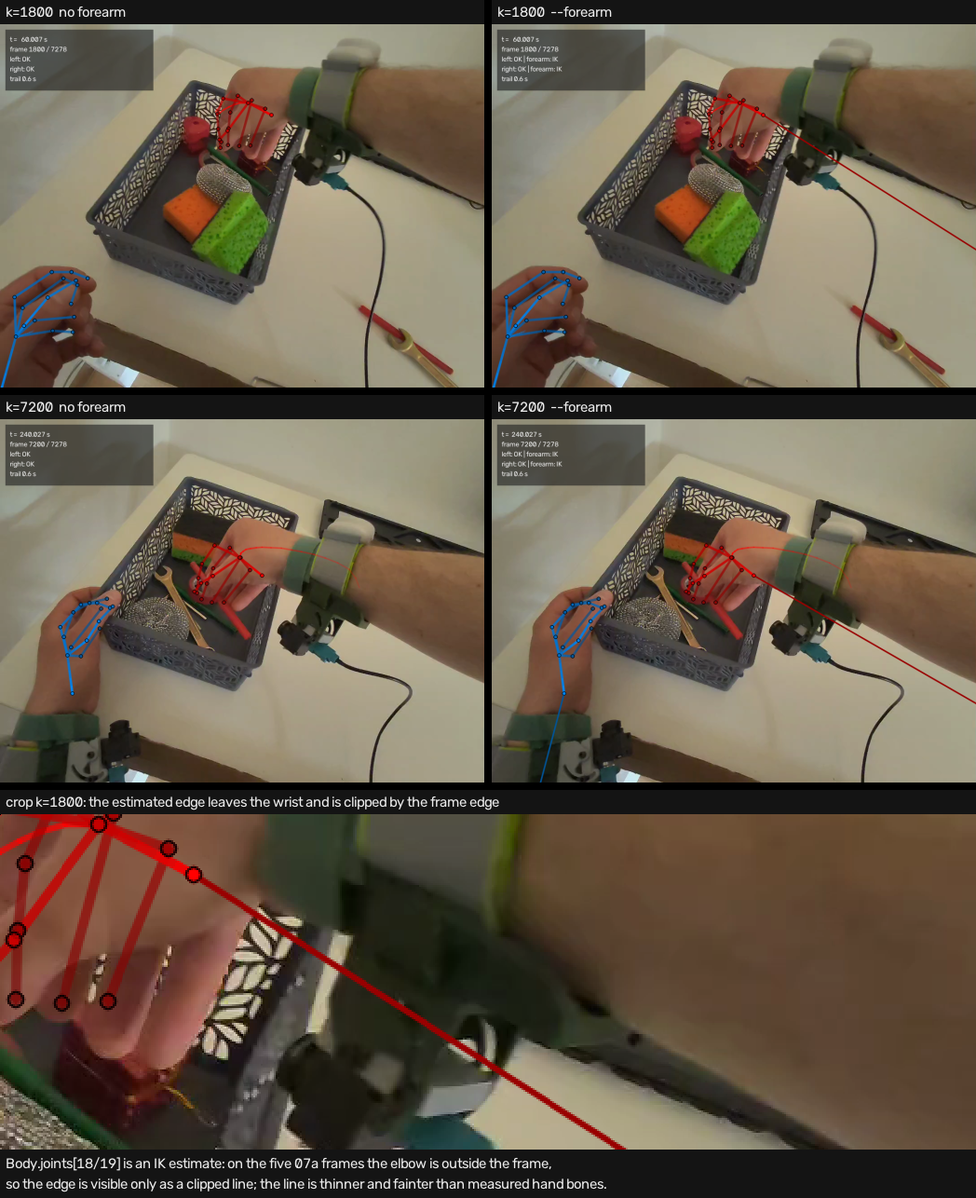
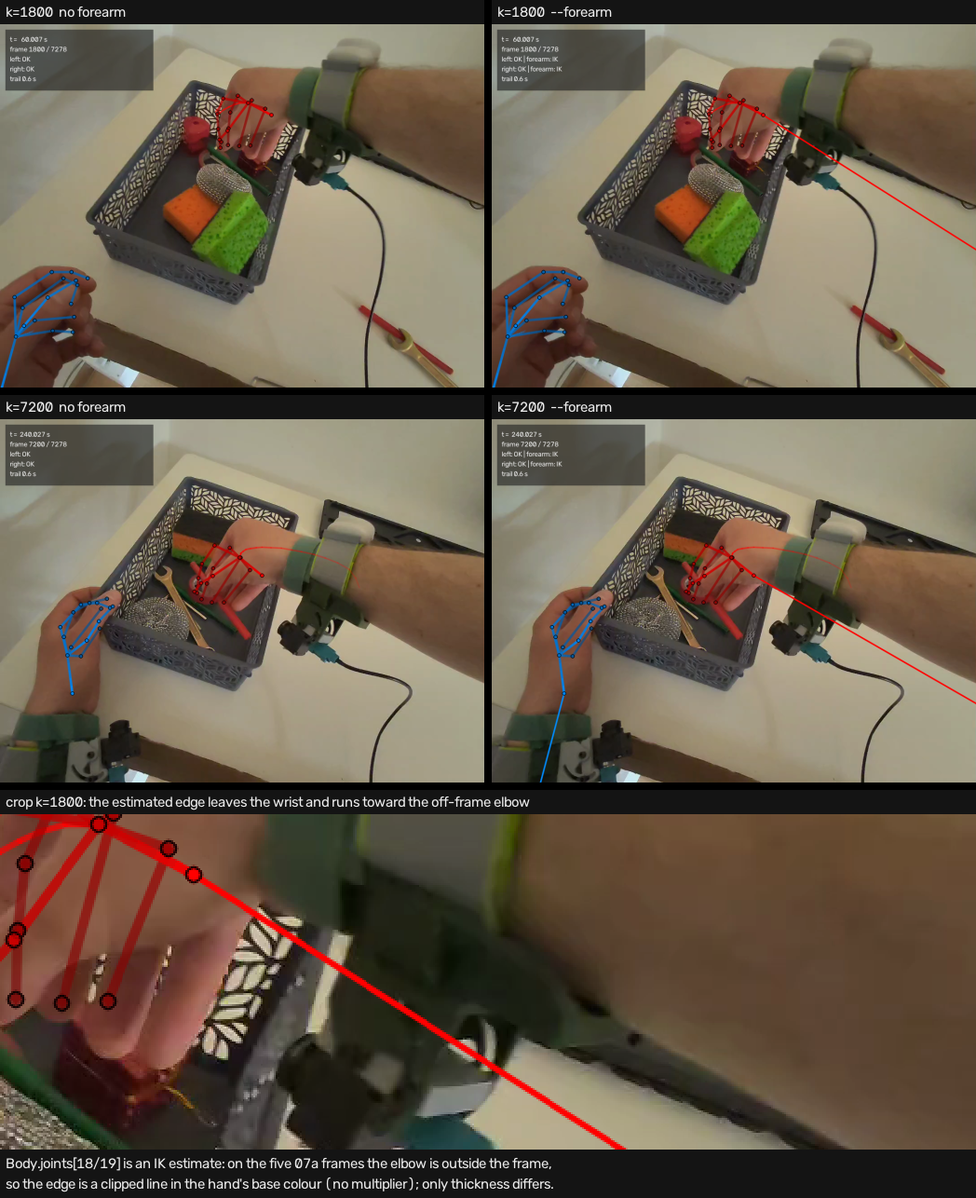
docs: record the base-colour forearm edge and regenerate the image
Document the 08h-fix colour rule in docs/overlay.md and the README limitations: the edge is drawn in the hand's base colour without a multiplier, which in the relative mode matches the nearest hand bone; only thickness (2 px vs 3 px) marks it as an estimate. Add the NOTES entry with the six-mode colour check, regressions (default 5/5 VTR-08g-fix4, five-points 5/5 VTR-08f, 40/40, 10/48 at 60.9 px, drift 34.6 px), pixel-diff of the hand/HUD and the 10 s fragment numbers. Regenerate docs/images/overlay_forearm.png.

diff --git a/docs/overlay.md b/docs/overlay.md
@@ -1,4 +1,4 @@
-# Наложение: скелет кистей, след, HUD, глубина и предплечье (задачи 08a/08b/08f/08g/08g-fix2/08g-fix3/08g-fix4/08h)
+# Наложение: скелет кистей, след, HUD, глубина и предплечье (задачи 08a/08b/08f/08g/08g-fix2/08g-fix3/08g-fix4/08h/08h-fix)
 
 ![До и после: 08a и 08b на кадрах t = 60.0 и 240.0 с](images/overlay_before_after.png)
 
@@ -10,7 +10,7 @@
 
 ![Три режима глубины на k = 1800 и k = 4285: только яркость / только alpha / яркость + alpha](images/overlay_depth_alpha_modes.png)
 
-![Предплечье elbow → wrist: без флага и с --forearm на k = 1800 и 7200, внизу кроп](images/overlay_forearm.png)
+![Предплечье elbow → wrist: без флага и с --forearm на k = 1800 и 7200, внизу кроп; ребро — базовым цветом руки](images/overlay_forearm.png)
 
 Нижняя сетка — задача 08f: слева прежний 5-точечный скелет (`--five-points`), в центре
 густой по умолчанию (17 суставов на руку), справа все 26 джойнтов OpenXR (`--all-joints`).
@@ -256,7 +256,7 @@
   вместе с относительной шкалой, явный `--depth-gamma` действует и там. `--no-depth-color`
   отключает всё.
 
-## Предплечье (08h)
+## Предплечье (08h, цвет — 08h-fix)
 
 - **Что это.** Единственная кость за пределами кисти — **предплечье `elbow → wrist`**, и только
   по флагу `--forearm` (по умолчанию выключено, кадр побайтово прежний). Локтя в Hand нет:
@@ -274,11 +274,21 @@
   времени, что у суставов 08f. Проекция — существующая `world_to_camera_matrix` (07c), без
   новой калибровки.
 - **Стиль.** Ребро рисуется **до** скелета кисти, поэтому точки и измеренные кости остаются
-  поверх; цвет руки умножается на **0.60**, толщина — **2 px** (у костей кисти 2, в режиме
-  глубины 3), т.е. линия визуально «оценка». Ребро **плоское**: глубина, alpha и градиент
+  поверх. Толщина — **2 px** (у костей кисти 2, в режиме глубины 3): от измеренного скелета
+  ребро отличается толщиной, а не цветом. Ребро **плоское**: глубина, alpha и градиент
   к нему не применяются — локоть Body не измерен, и красить оценку глубиной значило бы выдать
   её за факт. Ребро рисуется до скелета, всегда под кистью и не участвует в сортировке по
   глубине (она есть только у костей Hand).
+- **Цвет (08h-fix).** Ребро предплечья рисуется базовым цветом руки без множителя; в
+  относительном режиме это совпадает с цветом ближайшей кости кисти. Цвет — ровно
+  `LEFT_COLOR = (255, 140, 0)` / `RIGHT_COLOR = (0, 0, 255)` из `COLORS` (те же, что в 07a/08a),
+  без `shade_color` и без alpha. Поэтому он не зависит ни от `--depth-color`/
+  `--no-depth-color`, ни от `--depth-relative`/`--no-depth-relative`, ни от `--depth-gamma`/
+  `--no-depth-gamma`: ребро не участвует в раскраске по глубине, и на одном кадре цвет
+  одинаков во всех шести режимах. Проверено на PNG 5 кадров 07a: 6 видимых рёбер, во всех
+  шести режимах пиксель ребра равен базовому цвету **точно** (PNG без потерь; допуск на
+  H.264 нужен только для видео). Прежний вариант 08h умножал цвет на 0.60 и был темнее любой
+  кости кисти — от этого отказались.
 - **Разрывы и защита.** Ребро не рисуется, если конец не виден (`NaN`/«нет данных»/точка за
   камерой) или длина `|elbow → wrist|` вне **0.15–0.40 м** (замер: p5–p95 0.207–0.286 слева
   и 0.234–0.349 справа, полный размах 0.192–0.376). Последнее считается отдельно
@@ -369,10 +379,15 @@ trail 0.6 s
   отрезков следа; 0 кадров вне трекинга. Полный клип не перерендеривался: менялись только
   параметры шкалы (γ и ширина окна), геометрия и время не трогались.
 - 08h (10-с фрагмент с предплечьем, `output/overlay_10s_forearm.mp4`): 301 кадр (10.034 с),
-  1080×810, H.264 (`avc1`), **4.03 МиБ** (4 224 686 байт), **4.1 с** (73.3 кадр/с), 10 234 видимых сустава,
+  1080×810, H.264 (`avc1`), **4.05 МиБ** (4 249 491 байт), **3.9 с** (77.8 кадр/с), 10 234 видимых сустава,
   9 208 отрезков следа, **602** нарисованных ребра предплечья и 0 пропусков, 0 кадров вне
   трекинга. Полный клип не перерендеривался. Побайтовость (sha256, PNG 5 кадров 07a):
   дефолт без `--forearm` = `VTR-08g-fix4` 5/5, `--five-points` = `VTR-08f` 5/5.
+- 08h-fix (цвет ребра): фрагмент перерендерен после смены цвета (геометрия, кадры и число
+  рёбер те же — 301 кадр, 602 ребра, 4.05 МиБ / 3.9 с); PNG 5 кадров 07a с `--forearm`:
+  ребро ровно базового цвета руки во всех 6 режимах глубины (6 видимых рёбер); дефолт без
+  `--forearm` по-прежнему 5/5 `VTR-08g-fix4`, `--five-points` — 5/5 `VTR-08f`; вне полосы
+  ребра (и вне текста HUD-маркера) отличий от рендера без `--forearm` нет.
 - След правой руки виден с кадра 31 по кадр 7262 (кисть входит в кадр / трекинг кончается),
   левой — с кадра 11 по 7231 (левую кисть часто обрезает край кадра).
 
@@ -446,7 +461,7 @@ python src/overlay_video.py data/CameraRecord_*.mp4 --frames 30,1800,3600,5400,7
 python src/overlay_video.py data/CameraRecord_*.mp4 --frames 1800,7200 \
     --stills output/debug/forearm/off                 # без ребра (побайтово прежний кадр)
 python src/overlay_video.py data/CameraRecord_*.mp4 --frames 1800,7200 \
-    --stills output/debug/forearm/on --forearm        # тонкая бледная оценка + маркер HUD
+    --stills output/debug/forearm/on --forearm        # тонкая оценка базовым цветом руки + маркер HUD
 python src/overlay_video.py data/CameraRecord_*.mp4 --start 1750 --end 2050 \
     --out output/overlay_10s_forearm.mp4 --forearm
 ```

diff --git a/docs/NOTES.md b/docs/NOTES.md
@@ -1380,3 +1380,52 @@
   (побайтово). Ребро рисуется только при длине 0.15–0.40 м и обоих видимых концах; на кадрах,
   где локоть за кадром (в 07a — оба), линия просто обрезается краем. HUD показывает
   `forearm: IK` / `forearm: n/a`.»
+
+## 2026-11-03 · Задача 08h-fix (ребро предплечья базовым цветом руки)
+
+- **Что обнаружил (по ревью 08h).** Ребро рисовалось цветом руки × `FOREARM_COLOR_FACTOR = 0.60`
+  плюс толщина 2 px, поэтому даже ближайшая, самая яркая кость кисти (множитель 1.0) была
+  ярче ребра: «оценка» читалась не как другой источник данных, а как «тёмная кость». Требование
+  пользователя: ребро **всегда одного цвета и всегда цвета самой яркой кости руки**, то есть
+  точно `LEFT_COLOR`/`RIGHT_COLOR` без множителя; отличаться от кисти оно должно толщиной, а
+  не яркостью.
+- **Как решил.** `draw_forearms` передаёт в `_paint_bone` ровно `palette[side]` из `COLORS`
+  (`(255, 140, 0)` слева, `(0, 0, 255)` справа — те же, что в 07a/08a); `FOREARM_COLOR_FACTOR`
+  удалён, `shade_color` к ребру больше не применяется, alpha как была 1.0. Рёбра по-прежнему
+  не получают ни глубин, ни `z_ref`, ни `gamma`, ни сортировки: `draw_forearms` вызывается
+  **до** `draw_skeleton` и вообще не видит флагов глубины — поэтому цвет структурно не зависит
+  от `--depth-color`/`--no-depth-color`/`--depth-relative`/`--no-depth-relative`/
+  `--depth-gamma`/`--no-depth-gamma`. Толщина оставлена **2 px** (в режиме глубины у костей
+  кисти 3): это ровно вариант, разрешённый задачей, и он сохраняет «ребро тоньше кисти» без
+  игры с цветом. Порядок отрисовки, длина/видимость/разрывы, `T_head_cam`,
+  `VIDEO_TIME_OFFSET_MS` и `ProjectedPoint` не трогались.
+- **Как проверил — цвет.** PNG 5 кадров 07a (k = 30/1800/3600/5400/7200) с `--forearm` в шести
+  режимах: на 6 видимых рёбрах (левые на k = 30 и 7200, правые на k = 1800/3600/5400/7200;
+  остальные обрезаны краем/за кадром) пиксель в середине видимой части — ровно
+  `(255, 140, 0)` / `(0, 0, 255)` во **всех шести**: `color` / `no_color` / `relative` /
+  `no_relative` / `gamma` / `no_gamma` (PNG без потерь, поэтому точно; для H.264 был бы допуск).
+  Новые тесты: `test_colour_is_exact_base_in_six_depth_modes` (шесть CLI-флагов на синтетическом
+  кадре, пиксель вне кисти и HUD) и `ForearmColourRealDataTest`
+  (`test_forearm_pixel_is_base_colour_in_all_six_modes` — те же 6 режимов на 5 кадрах 07a,
+  пиксель выбирается ≥20 px от любого сустава густого скелета и вне панели HUD).
+- **Как проверил — регрессии.** Побайтовость (sha256, PNG 5 кадров 07a): дефолт без
+  `--forearm` = `VTR-08g-fix4` **5/5**, `--five-points` = `VTR-08f` **5/5** (ветка-родитель
+  08h по дефолту совпадала с 08g-fix4). `calib_search --verify-config`: **40/40, 0.0 px**,
+  кости **10/48 в допуске ±50 px, 60.9 px, 13 изломов**; `drift_diag.py`: **34.6 px**
+  (ладонь/запястье 4.3, кончики 44.7). С `--forearm` против кадра без ребра: с `--no-hud`
+  изменены только пиксели ребра — **9812** пикселей на 5 кадрах, все в ≤ **2.84 px** от
+  проекции ребра (это антиалиасная кромка линии 2 px), вне полосы — 0. Сравнение с кадром 08h
+  (старый цвет × 0.60) при том же `--forearm`: отличия **только вдоль ребра** (≤ 2.84 px от
+  проекции), а область HUD `(12, 12, 342, 148)` побитово совпала на всех 5 кадрах — то есть
+  панель и текст маркера не сдвинулись, а кости кисти пиксель-в-пиксель прежние. (Относительно
+  рендера **без** `--forearm` внутри HUD отличаются ровно **882** пикселя на кадр — это текст
+  маркера `| forearm: IK`, появившийся ещё в 08h, а не следствие смены цвета.)
+- **10-с фрагмент** `--start 1750 --end 2050 --forearm` (`output/overlay_10s_forearm.mp4`):
+  **301** кадр (10.034 с), 1080×810, H.264 (`avc1`), **4 249 491 байт = 4.05 МиБ**
+  (было 4 224 686 = 4.03 МиБ: яркий красный сжимается чуть хуже), **3.9 с** (77.8 кадр/с),
+  602 ребра, 0 пропусков, 0 кадров вне трекинга; полный клип не перерендеривался. Тесты —
+  **686/686** (684 прежних + 2 новых на цвет).
+- **Что идёт в README (раздел «Ограничения»):** «Ребро предплечья рисуется базовым цветом руки
+  без множителя; в относительном режиме это совпадает с цветом ближайшей кости кисти. От
+  измеренных костей кисти его отличает только толщина (2 px против 3 px в режиме глубины);
+  ребро плоское, поэтому его цвет не зависит от флагов глубины.»

diff --git a/README.md b/README.md
@@ -314,8 +314,8 @@ data/CameraRecord_*.mp4 --stills output/debug/overlay`.
 (яркость / прозрачность / оба) — [`docs/images/overlay_depth_alpha_modes.png`](docs/images/overlay_depth_alpha_modes.png),
 а абсолютная / относительная / относительная+alpha — [`docs/images/overlay_depth_relative_modes.png`](docs/images/overlay_depth_relative_modes.png),
 линейная / γ = 0.7 / γ + alpha — [`docs/images/overlay_depth_gamma.png`](docs/images/overlay_depth_gamma.png).
-Опциональное **предплечье** `elbow → wrist` (тонкая бледная линия-оценка из `Body.joints[18/19]`,
-по умолчанию выключено) — флаг `--forearm`; пример — [`docs/images/overlay_forearm.png`](docs/images/overlay_forearm.png).
+Опциональное **предплечье** `elbow → wrist` (тонкая линия-оценка из `Body.joints[18/19]` базовым
+цветом руки, по умолчанию выключено) — флаг `--forearm`; пример — [`docs/images/overlay_forearm.png`](docs/images/overlay_forearm.png).
 Быстрая проверка рендера — 10-секундный фрагмент вместо полного клипа (≈4 с, 301 кадр, 3.9 МиБ):
 `python src/overlay_video.py data/CameraRecord_*.mp4 --start 1750 --end 2050 --out output/overlay_10s_alpha.mp4`.
 След и HUD отключаются флагами `--no-trail`/`--no-hud`, окно следа — `--trail-seconds`;
@@ -364,10 +364,13 @@ vr-tracking-viz/
 - Визуализируются голова и кисти: по умолчанию 17 суставов на руку, `--all-joints` — все 26,
   `--five-points` — 5 точек; тело (24 джойнта) не строится. Исключение — опциональное
   предплечье: из Body берутся только локти 18/19, и только при `--forearm`.
-- **Предплечье — приблизительная линия** по IK-оценке локтя из Body (`Body.joints[18/19]`),
-  поэтому она тоньше и бледнее измеренных костей кисти (цвет × 0.6, толщина 2 px, плоский —
-  без глубинной раскраски: глубина ребра не измерена) и по
-  умолчанию **выключена** (`--forearm`): длина ребра гуляет 0.21–0.35 м (полный размах
+- **Предплечье — приблизительная линия** по IK-оценке локтя из Body (`Body.joints[18/19]`).
+  Ребро предплечья рисуется базовым цветом руки без множителя; в относительном режиме это
+  совпадает с цветом ближайшей кости кисти. От измеренных костей кисти его отличает только
+  толщина (2 px против 3 px в режиме глубины), а не яркость: ребро плоское — без глубинной
+  раскраски и прозрачности (глубина ребра не измерена), поэтому его цвет не зависит ни от
+  `--depth-color`, ни от `--depth-relative`, ни от `--depth-gamma` и их `--no-*`-вариантов.
+  Режим по умолчанию **выключен** (`--forearm`): длина ребра гуляет 0.21–0.35 м (полный размах
   0.19–0.38), угол сгиба в локте 79–120° — для одного человека это невозможно, значит локоть
   достраивается, а не измеряется. Ребро рисуется только при длине 0.15–0.40 м и двух видимых
   концах; на кадрах 07a оба локтя за кадром, поэтому линия просто обрезается краем. HUD

diff --git a/CLAUDE.md b/CLAUDE.md
@@ -116,8 +116,21 @@ bbox) и `_blend_bone_gradient` (смешивание всей кости оди
 кости **10/48, 60.9 px**, drift **34.6 px**; тесты **684/684**; 10-с фрагмент
 `output/overlay_10s_forearm.mp4` — 301 кадр, 4.03 МиБ, 602 ребра. Запись — `docs/NOTES.md`,
 `docs/overlay.md`, README; мерж **08d → … → 08g-fix4 → 08h** — пользователь.
+**08h-fix — `in_review`** (ветка `VTR-08h-fix`, от `VTR-08h`): ребро предплечья рисуется
+**ровно базовым цветом руки** (08h умножал на 0.60 и был темнее любой кости кисти):
+`FOREARM_COLOR_FACTOR` удалён, `draw_forearms` передаёт `COLORS[side]` без `shade_color`/alpha;
+цвет структурно не зависит от `--depth-color`/`--depth-relative`/`--depth-gamma` и их
+`--no-*` (ребро по-прежнему до скелета, вне глубины и сортировки); толщина осталась **2 px**
+(у костей кисти 3 в режиме глубины) — отличается толщиной, не цветом. Проверено: PNG 5 кадров
+07a — 6 видимых рёбер, во всех 6 режимах пиксель ровно `(255,140,0)`/`(0,0,255)`; дефолт 5/5 =
+`VTR-08g-fix4`, `--five-points` 5/5 = `VTR-08f`; с `--forearm` вне полосы ребра отличий нет
+(с `--no-hud` все 9812 изменённых пикселей ≤ 2.84 px от ребра; относительно кадра 08h с
+`--forearm` HUD-панель побитово та же, отличия только вдоль ребра); **40/40**, 0 px, кости
+**10/48, 60.9 px**, drift **34.6 px**;
+тесты **686/686**; 10-с фрагмент — 301 кадр, **4.05 МиБ** (4 249 491 байт), 3.9 с, 602 ребра;
+картинка `docs/images/overlay_forearm.png` перегенерирована. Мерж — пользователь.
 Осталось `todo`: 10a–10c, 11, 12; мерж **08d → 08e → 08f → 08g → 08g-fix → 08g-fix2 → 08g-fix3
-→ 08g-fix4 → 08h** — пользователь.
+→ 08g-fix4 → 08h → 08h-fix** — пользователь.
 В репозитории есть
 `src/{parse_tracking,sync,camera_model,calib_frames,calib_bones,calib_search,config,overlay_video,
 drift_diag,plot_trajectory}.py`, `tests/` и
